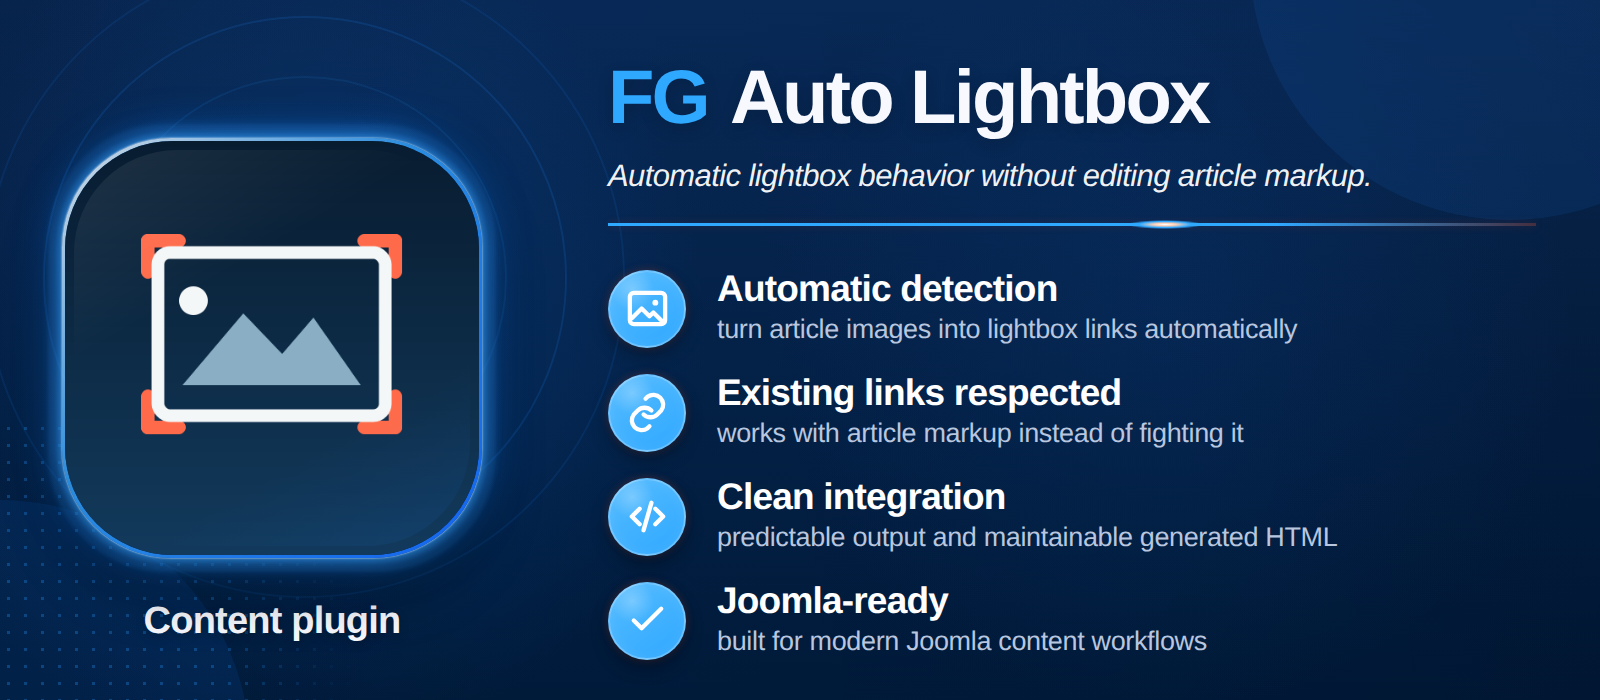
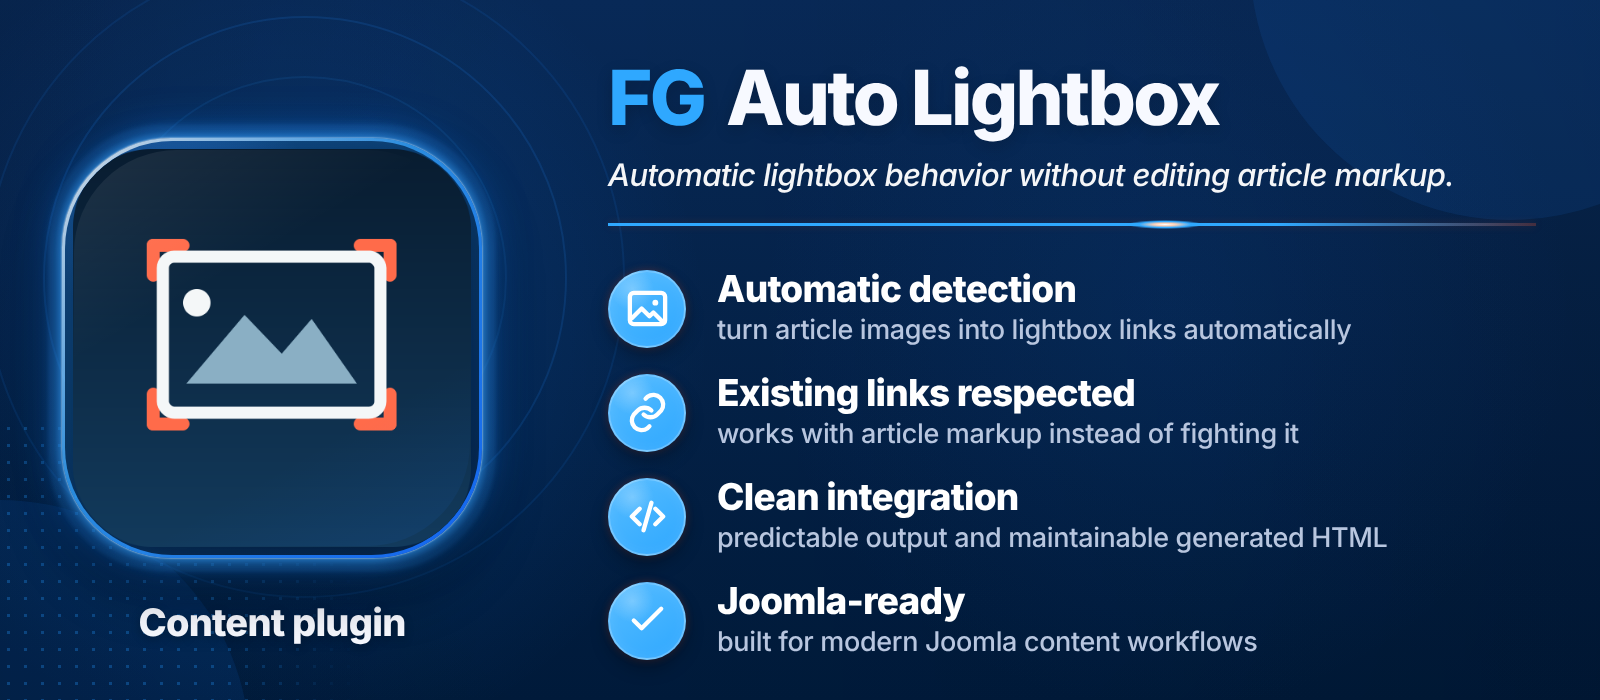
update render

diff --git a/templates/banner.css b/templates/banner.css
@@ -1,6 +1,6 @@
 html,body{margin:0;width:100%;height:100%;overflow:hidden;background:#00152f}*{box-sizing:border-box}body{font-family:Inter,"Segoe UI",Arial,sans-serif;-webkit-font-smoothing:antialiased;text-rendering:geometricPrecision}.banner{position:relative;width:1600px;height:700px;overflow:hidden;color:var(--text);background:radial-gradient(circle at 18% 48%,rgba(20,132,255,.18),transparent 31%),radial-gradient(circle at 73% 44%,rgba(15,92,190,.12),transparent 33%),linear-gradient(180deg,var(--bg-top),var(--bg-bottom))}.banner:before{content:"";position:absolute;inset:0;background:linear-gradient(90deg,rgba(0,0,0,.05),transparent 35%,rgba(0,0,0,.07)),radial-gradient(circle at 50% 50%,transparent 46%,rgba(0,0,0,.08) 100%);pointer-events:none}.ambient{position:absolute;border-radius:50%;pointer-events:none}.ambient-a{width:520px;height:520px;right:-170px;top:-300px;background:rgba(21,109,211,.13)}.ambient-b{width:500px;height:500px;left:-250px;bottom:-300px;background:rgba(14,100,212,.13)}.rings{position:absolute;left:-15px;top:-42px;width:640px;height:640px}.rings span{position:absolute;border-radius:50%;border:2px solid rgba(34,134,255,.10)}.rings span:nth-child(1){inset:0}.rings span:nth-child(2){inset:58px;border-color:rgba(35,145,255,.14)}.rings span:nth-child(3){inset:118px;border-color:rgba(38,156,255,.10)}.dots{position:absolute;left:0;bottom:-5px;width:360px;height:285px;opacity:.32;background-image:radial-gradient(circle,rgba(37,154,255,.9) 1.7px,transparent 1.8px);background-size:17px 17px;mask-image:linear-gradient(90deg,#000 0%,#000 58%,transparent 100%)}
-.left-panel{position:absolute;left:0;top:0;width:34%;height:100%;display:flex;flex-direction:column;align-items:center}.logo-shell{position:relative;width:420px;height:420px;margin-top:138px;border-radius:26%;padding:3px;background:linear-gradient(135deg,rgba(255,255,255,.85),rgba(52,165,255,.8) 42%,rgba(20,105,255,.92));box-shadow:0 0 2px rgba(255,255,255,.95),0 0 18px rgba(61,170,255,.95),0 0 44px rgba(17,128,255,.62),0 30px 58px rgba(0,0,0,.45)}.logo-shell:before,.logo-shell:after{content:"";position:absolute;border-radius:inherit;pointer-events:none}.logo-shell:before{inset:-12px;border:1px solid rgba(61,166,255,.35);filter:blur(2px)}.logo-shell:after{inset:12px;background:linear-gradient(150deg,rgba(255,255,255,.09),transparent 34%,transparent 70%,rgba(29,122,255,.10))}.logo-inner{position:relative;width:100%;height:100%;border-radius:inherit;overflow:hidden;display:grid;place-items:center;background:radial-gradient(circle at 28% 18%,rgba(55,139,255,.36),transparent 30%),linear-gradient(145deg,#114a88 0%,#073665 38%,#032753 72%,#021e42 100%);box-shadow:inset 0 0 32px rgba(63,159,255,.18),inset 0 -24px 42px rgba(0,0,0,.28)}.project-logo{max-width:77%;max-height:77%;object-fit:contain;filter:drop-shadow(0 8px 12px rgba(0,0,0,.28))}.fallback-logo{font-size:172px;line-height:1;font-weight:800;color:white;text-shadow:0 8px 18px rgba(0,0,0,.28)}.extension-type{margin-top:42px;font-size:38px;font-weight:800;letter-spacing:-.8px;text-shadow:0 3px 10px rgba(0,0,0,.25)}
+.left-panel{position:absolute;left:0;top:0;width:34%;height:100%;display:flex;flex-direction:column;align-items:center}.logo-shell{position:relative;width:420px;height:420px;margin-top:138px;border-radius:26%;padding:3px;background:linear-gradient(135deg,rgba(255,255,255,.85),rgba(52,165,255,.8) 42%,rgba(20,105,255,.92));box-shadow:0 0 2px rgba(255,255,255,.95),0 0 18px rgba(61,170,255,.95),0 0 44px rgba(17,128,255,.62),0 30px 58px rgba(0,0,0,.45)}.logo-shell:before,.logo-shell:after{content:"";position:absolute;border-radius:inherit;pointer-events:none}.logo-shell:before{inset:-12px;border:1px solid rgba(61,166,255,.35);filter:blur(2px)}.logo-shell:after{inset:12px;background:linear-gradient(150deg,rgba(255,255,255,.09),transparent 34%,transparent 70%,rgba(29,122,255,.10))}.logo-inner{position:relative;width:100%;height:100%;border-radius:inherit;overflow:hidden;display:grid;place-items:center;background:radial-gradient(circle at 28% 18%,rgba(55,139,255,.36),transparent 30%),linear-gradient(145deg,#114a88 0%,#073665 38%,#032753 72%,#021e42 100%);box-shadow:inset 0 0 32px rgba(63,159,255,.18),inset 0 -24px 42px rgba(0,0,0,.28)}.project-logo{position:absolute;left:50%;top:50%;width:var(--logo-size,77%);height:var(--logo-size,77%);max-width:none;max-height:none;object-fit:contain;transform:translate(calc(-50% + var(--logo-offset-x,0px)),calc(-50% + var(--logo-offset-y,0px))) scale(var(--logo-scale,1));transform-origin:center center;filter:drop-shadow(0 8px 12px rgba(0,0,0,.28))}.fallback-logo{font-size:172px;line-height:1;font-weight:800;color:white;text-shadow:0 8px 18px rgba(0,0,0,.28)}.extension-type{margin-top:42px;font-size:38px;font-weight:800;letter-spacing:-.8px;text-shadow:0 3px 10px rgba(0,0,0,.25)}
 .content{position:absolute;left:38%;top:0;width:58%;height:100%}.hero{padding-top:60px}h1{margin:0;white-space:nowrap;font-size:76px;line-height:1;font-weight:800;letter-spacing:-2.8px;text-shadow:0 5px 16px rgba(0,0,0,.18)}h1 .fg{color:var(--accent);margin-right:22px}.subtitle{margin-top:22px;font-size:31px;line-height:1.15;font-style:italic;font-weight:500;letter-spacing:-.6px;color:rgba(255,255,255,.96)}.divider{position:relative;width:100%;height:3px;margin-top:29px;background:linear-gradient(90deg,var(--accent) 0%,var(--accent) 72%,rgba(255,85,40,.25) 100%);box-shadow:0 0 8px rgba(255,85,35,.18)}.divider i{position:absolute;left:60%;top:-3px;width:76px;height:9px;transform:translateX(-50%);border-radius:50%;background:radial-gradient(ellipse,#fff 0%,#ffd0b6 20%,var(--accent) 48%,transparent 72%);filter:blur(.5px)}
 .features{margin-top:31px}.feature{display:grid;grid-template-columns:86px minmax(0,1fr);align-items:center;column-gap:23px;min-height:104px}.feature-icon{width:78px;height:78px;border-radius:50%;display:grid;place-items:center;background:radial-gradient(circle at 30% 23%,rgba(255,255,255,.26),transparent 28%),linear-gradient(145deg,var(--accent-2),var(--accent));border:2px solid rgba(255,255,255,.26);box-shadow:inset 0 0 14px rgba(255,255,255,.08),0 8px 18px rgba(0,0,0,.30),0 0 8px rgba(255,83,30,.24)}.feature-icon svg{width:47px;height:47px;stroke:#fff;fill:none;stroke-width:2.2;stroke-linecap:round;stroke-linejoin:round}.feature-copy{min-width:0;padding-bottom:2px}.feature h2{margin:0 0 7px;font-size:37px;line-height:1.03;font-weight:800;letter-spacing:-.8px;color:#fff}.feature p{margin:0;white-space:nowrap;font-size:27px;line-height:1.1;font-weight:500;letter-spacing:-.35px;color:var(--muted)}.features-3 .feature{min-height:128px}.features-3 .feature h2{font-size:39px}.features-3 .feature p{font-size:28px}
 
-.project-logo-full{position:absolute;inset:0;width:100%;height:100%;max-width:none;max-height:none;object-fit:cover;border-radius:inherit;transform:scale(1.045);filter:none}
+.project-logo-full{position:absolute;left:50%;top:50%;width:var(--logo-size,100%);height:var(--logo-size,100%);max-width:none;max-height:none;object-fit:cover;border-radius:inherit;transform:translate(calc(-50% + var(--logo-offset-x,0px)),calc(-50% + var(--logo-offset-y,0px))) scale(var(--logo-scale,1.045));transform-origin:center center;filter:none}

diff --git a/templates/banner.html b/templates/banner.html
@@ -1,4 +1,4 @@
-<!doctype html><html lang="en"><head><meta charset="utf-8"><meta name="viewport" content="width={{ width }}, initial-scale=1"><title>FG {{ title }}</title><style>{{ css_text | safe }}</style><style>:root{--bg-top:{{ palette.background_top }};--bg-bottom:{{ palette.background_bottom }};--accent:{{ palette.accent }};--accent-2:{{ palette.accent_secondary }};--text:{{ palette.text_primary }};--muted:{{ palette.text_secondary }};--panel:{{ palette.panel_fill }};--panel-border:{{ palette.panel_border }};--glow:{{ palette.panel_glow }};}</style></head><body>
+<!doctype html><html lang="en"><head><meta charset="utf-8"><meta name="viewport" content="width={{ width }}, initial-scale=1"><title>FG {{ title }}</title><style>{{ css_text | safe }}</style><style>:root{--bg-top:{{ palette.background_top }};--bg-bottom:{{ palette.background_bottom }};--accent:{{ palette.accent }};--accent-2:{{ palette.accent_secondary }};--text:{{ palette.text_primary }};--muted:{{ palette.text_secondary }};--panel:{{ palette.panel_fill }};--panel-border:{{ palette.panel_border }};--glow:{{ palette.panel_glow }};--logo-size:{{ logo_size or ('100%' if logo_mode == 'full' else '77%') }};--logo-scale:{{ logo_scale if logo_scale is not none else 1 }};--logo-offset-x:{{ logo_offset_x if logo_offset_x is not none else 0 }}px;--logo-offset-y:{{ logo_offset_y if logo_offset_y is not none else 0 }}px;}</style></head><body>
 <div class="banner"><div class="ambient ambient-a"></div><div class="ambient ambient-b"></div><div class="rings"><span></span><span></span><span></span></div><div class="dots"></div>
 <section class="left-panel"><div class="logo-shell"><div class="logo-inner">{% if logo_uri %}<img class="project-logo{% if logo_mode == 'full' %} project-logo-full{% endif %}" src="{{ logo_uri }}" alt="">{% else %}<div class="fallback-logo">{{ placeholder_logo or 'FG' }}</div>{% endif %}</div></div><div class="extension-type">{{ extension_type }}</div></section>
 <section class="content"><header class="hero"><h1><span class="fg">{{ title_prefix }}</span><span>{{ title }}</span></h1><div class="subtitle">{{ subtitle }}</div><div class="divider"><i></i></div></header><div class="features features-{{ features|length }}">{% for f in features %}<article class="feature"><div class="feature-icon">{% include 'icons/' + f.icon + '.svg' ignore missing %}</div><div class="feature-copy"><h2>{{ f.heading }}</h2><p>{{ f.description }}</p></div></article>{% endfor %}</div></section></div></body></html>

diff --git a/README.md b/README.md
@@ -85,3 +85,40 @@ Táto verzia je považovaná za základný master štýl pre ďalšie FG bannery
 - slogan
 - typ rozšírenia
 - zoznam hlavných vlastností
+
+
+## Logo tuning per project
+
+V3.1 podporuje tieto parametre v `projects.json`:
+
+```json
+"logo_mode": "contain",
+"logo_size": "90%",
+"logo_scale": 1.0,
+"logo_offset_x": 0,
+"logo_offset_y": 0
+```
+
+Význam:
+
+- `logo_mode` – `contain` alebo `full`
+- `logo_size` – základná šírka/výška loga v paneli, napr. `90%` alebo `100%`
+- `logo_scale` – jemné optické zväčšenie/zmenšenie, napr. `0.95`, `1`, `1.08`
+- `logo_offset_x` – horizontálny posun v px
+- `logo_offset_y` – vertikálny posun v px
+
+Príklady:
+
+```json
+"logo_mode": "contain",
+"logo_size": "90%",
+"logo_scale": 1.0
+```
+
+```json
+"logo_mode": "full",
+"logo_size": "100%",
+"logo_scale": 1.05,
+"logo_offset_x": 0,
+"logo_offset_y": 0
+```
